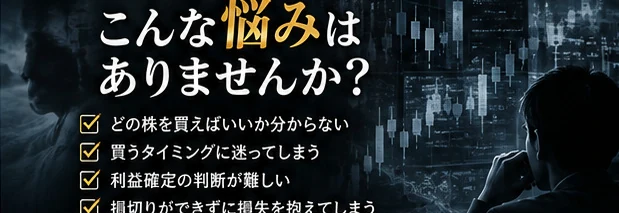
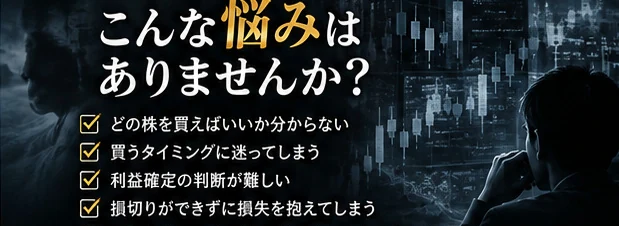
スポット3銘柄ページのPC表示幅を修正する
senrigan-spot3-sales/src/ の変更を spot3/ に反映。
spot3/ 以外のファイルには変更なし。

diff --git a/spot3/assets/css/style.css b/spot3/assets/css/style.css
@@ -26,7 +26,13 @@
   --tx3:#8d9cb2;
   --line:rgba(230,189,103,.28);
   --sans:'Noto Sans JP',-apple-system,BlinkMacSystemFont,'Hiragino Kaku Gothic ProN','Yu Gothic',sans-serif;
-  --wrap:760px;
+
+  /* レイアウト幅。ここはスマホの値。PCはファイル末尾の @media で広げる。
+     以前は --wrap が全幅で760px固定だったため、1440pxの画面でも
+     中身が760pxの帯に収まり、左右に340pxずつ空白が残っていた。 */
+  --wrap:760px;      /* セクションの最大幅（左右余白を含む） */
+  --gut:18px;        /* 左右余白 */
+  --measure:760px;   /* 本文の最大幅。PCで1行が長くなりすぎるのを防ぐ */
 }
 
 *{box-sizing:border-box;margin:0;padding:0;-webkit-text-size-adjust:100%}
@@ -46,7 +52,7 @@ body{
 img{max-width:100%;height:auto;display:block}
 a{color:inherit;text-decoration:none}
 
-.wrap{width:100%;max-width:var(--wrap);margin:0 auto;padding:0 18px}
+.wrap{width:100%;max-width:var(--wrap);margin:0 auto;padding:0 var(--gut)}
 
 /* 読み上げには残して画面からは隠す。
    見出しが画像に焼き込まれている箇所で使う。 */
@@ -81,7 +87,7 @@ a{color:inherit;text-decoration:none}
 
 h2{font-size:27px;font-weight:900;line-height:1.5;letter-spacing:-.015em;color:#fff}
 h2 em{font-style:normal;color:var(--gold-l)}
-.lead{margin-top:16px;font-size:15.5px;line-height:2;color:var(--tx2)}
+.lead{margin-top:16px;font-size:16.5px;line-height:2;color:var(--tx2)}
 .lead + .lead{margin-top:14px}
 .note{margin-top:12px;font-size:12.5px;line-height:1.85;color:var(--tx3)}
 
@@ -91,6 +97,7 @@ h2 em{font-style:normal;color:var(--gold-l)}
   font-size:19px;font-weight:900;line-height:1.65;color:#fff}
 
 @media (min-width:620px){
+  :root{--gut:28px}
   h2{font-size:32px}
   .sec{padding:64px 0}
 }
@@ -103,11 +110,15 @@ h2 em{font-style:normal;color:var(--gold-l)}
 /* ===== 画像の帯 =====
    端まで使う。囲みを付けず、地に溶かして迫力を出す。 */
 .band{position:relative;line-height:0;background:var(--navy)}
-.band img{width:100%;max-width:1400px;margin:0 auto}
-/* 下端で地に溶かす。元画像の下端が詰まって見えるのを抑える */
-.band.fade::after{content:"";position:absolute;left:0;right:0;bottom:0;height:14px;
+/* 元画像が619〜659pxしかない。1400pxまで伸ばすと2.2倍に引き伸ばされて
+   輪郭がぼやけるため、上限を設けて中央に置く。 */
+.band img{width:100%;max-width:900px;margin:0 auto}
+/* 下端で地に溶かす。元画像の下端が詰まって見えるのを抑える。
+   高さは % 指定。px で固定すると、画像が小さくなるスマホ幅で
+   相対的に厚くなり、最後の行にかぶってしまう。 */
+.band.fade::after{content:"";position:absolute;left:0;right:0;bottom:0;height:3.5%;
   background:linear-gradient(180deg,transparent,var(--navy));pointer-events:none}
-.bandcap{line-height:1.8;text-align:center;font-size:12px;color:var(--tx3);
+.bandcap{line-height:1.8;text-align:center;font-size:12.5px;color:var(--tx3);
   padding:12px 18px 0}
 
 
@@ -119,7 +130,8 @@ h2 em{font-style:normal;color:var(--gold-l)}
   var(--navy);
   padding:0 0 34px}
 .fvimg{line-height:0}
-.fvimg img{width:100%;max-width:1400px;margin:0 auto}
+/* 元画像は1983px。1100pxまでなら引き伸ばしにならない。 */
+.fvimg img{width:100%;max-width:1100px;margin:0 auto}
 @media (min-width:900px){
   .fv{padding-top:18px}
   .fvimg img{border-radius:10px;box-shadow:0 18px 60px rgba(0,0,0,.6)}
@@ -133,16 +145,16 @@ h2 em{font-style:normal;color:var(--gold-l)}
   padding:18px 16px 16px;text-align:center}
 .pricebox .k{font-size:12px;font-weight:700;letter-spacing:.14em;color:var(--gold)}
 .pricebox .v{margin-top:6px;font-weight:900;line-height:1.1;letter-spacing:-.03em;
-  font-size:44px;color:#fff}
+  font-size:48px;color:#fff}
 .pricebox .v b{color:var(--red);background:#fff;border-radius:8px;padding:0 10px;
   margin-right:3px;display:inline-block}
-.pricebox .v i{font-style:normal;font-size:20px;letter-spacing:0}
+.pricebox .v i{font-style:normal;font-size:22px;letter-spacing:0}
 .pricebox .tax{margin-top:10px}
-@media (max-width:359px){ .pricebox .v{font-size:36px} }
+@media (max-width:359px){ .pricebox .v{font-size:38px} }
 
 
 /* ===== ボタン ===== */
-.btn{display:block;width:100%;max-width:460px;margin:20px auto 0;
+.btn{display:block;width:100%;max-width:460px;margin:22px auto 0;
   font-family:inherit;text-align:center;font-size:17.5px;font-weight:900;
   line-height:1.5;padding:18px 16px;border-radius:12px;border:0;cursor:pointer;
   letter-spacing:.01em;color:#2b1d00;
@@ -186,14 +198,14 @@ h2 em{font-style:normal;color:var(--gold-l)}
 .steps li:last-child::after{display:none}
 .steps b{display:block;font-size:18px;font-weight:900;line-height:1.55;color:#fff;
   margin-bottom:5px}
-.steps span{display:block;font-size:14.5px;line-height:1.95;color:var(--tx2)}
+.steps span{display:block;font-size:15.5px;line-height:1.95;color:var(--tx2)}
 
 
 /* ===== 含まれるもの ===== */
 .incl{list-style:none;margin-top:22px;display:grid;gap:1px;
   background:var(--line);border:1px solid var(--line);border-radius:12px;overflow:hidden}
 .incl li{background:var(--navy);position:relative;
-  padding:15px 16px 15px 46px;font-size:15.5px;line-height:1.7}
+  padding:15px 16px 15px 46px;font-size:16px;line-height:1.7}
 .incl li::before{content:"";position:absolute;left:18px;top:22px;
   width:12px;height:7px;border-left:2.5px solid var(--gold);
   border-bottom:2.5px solid var(--gold);transform:rotate(-45deg)}
@@ -202,7 +214,7 @@ h2 em{font-style:normal;color:var(--gold-l)}
 .spec dl{display:grid;grid-template-columns:1fr}
 .spec dt{font-size:12.5px;font-weight:700;letter-spacing:.06em;color:var(--gold);
   padding-top:14px}
-.spec dd{font-size:15px;line-height:1.8;padding-bottom:14px;
+.spec dd{font-size:16px;line-height:1.8;padding-bottom:14px;
   border-bottom:1px solid rgba(255,255,255,.08);color:var(--tx2)}
 .spec dd:last-of-type{border-bottom:0}
 @media (min-width:560px){
@@ -219,13 +231,13 @@ h2 em{font-style:normal;color:var(--gold-l)}
   background:rgba(255,255,255,.03);overflow:hidden}
 .faq details[open]{border-color:var(--line)}
 .faq summary{list-style:none;cursor:pointer;position:relative;
-  padding:15px 46px 15px 16px;font-size:15.5px;font-weight:700;line-height:1.7;color:#fff}
+  padding:15px 46px 15px 16px;font-size:16px;font-weight:700;line-height:1.7;color:#fff}
 .faq summary::-webkit-details-marker{display:none}
 .faq summary::after{content:"";position:absolute;right:18px;top:23px;
   width:9px;height:9px;border-right:2px solid var(--gold);border-bottom:2px solid var(--gold);
   transform:rotate(45deg);transition:transform .15s}
 .faq details[open] summary::after{transform:rotate(-135deg);top:26px}
-.faq .a{padding:0 16px 16px;font-size:14.5px;line-height:1.95;color:var(--tx2)}
+.faq .a{padding:0 16px 16px;font-size:15.5px;line-height:1.95;color:var(--tx2)}
 
 
 /* ===== 価格セクション ===== */
@@ -237,12 +249,12 @@ h2 em{font-style:normal;color:var(--gold-l)}
   box-shadow:0 0 0 1px rgba(230,189,103,.18) inset,0 20px 50px rgba(0,0,0,.45)}
 .pricecard .k{font-size:12.5px;font-weight:700;letter-spacing:.16em;color:var(--gold)}
 .pricecard .v{margin-top:8px;font-weight:900;line-height:1.05;letter-spacing:-.035em;
-  font-size:54px;color:#fff}
+  font-size:58px;color:#fff}
 .pricecard .v b{color:var(--red);background:#fff;border-radius:9px;padding:0 11px;
   margin-right:3px;display:inline-block}
-.pricecard .v i{font-style:normal;font-size:23px;letter-spacing:0}
+.pricecard .v i{font-style:normal;font-size:25px;letter-spacing:0}
 .pricecard .tax{margin-top:12px}
-@media (max-width:359px){ .pricecard .v{font-size:42px} }
+@media (max-width:359px){ .pricecard .v{font-size:44px} }
 
 /* 二重価格の根拠が未確認のため、定価の打消し線は出していない。
    その判断自体をページに残しておく。 */
@@ -256,7 +268,7 @@ h2 em{font-style:normal;color:var(--gold-l)}
 .final{position:relative;padding:56px 0 50px;background:
   radial-gradient(900px 440px at 50% 0%,rgba(18,70,122,.55),transparent 72%),
   var(--navy)}
-.final h2{text-align:center}
+.final h2{text-align:center;font-size:30px}
 .final .catch{margin-top:16px;text-align:center;font-size:17px;font-weight:700;
   line-height:1.8;color:var(--gold-l)}
 .final .lead{text-align:center}
@@ -271,3 +283,106 @@ h2 em{font-style:normal;color:var(--gold-l)}
 .ft ul li{margin-left:1.1em;margin-bottom:7px}
 .ft .cr{margin-top:22px;padding-top:15px;border-top:1px solid rgba(255,255,255,.08);
   font-size:12px;color:#6d7b91}
+
+
+/* ===== タブレット（620〜999px） =====
+   幅の指定はここに置く。上の各コンポーネントより後ろに書かないと
+   基本ルール（.pricebox / .btn の max-width:460px など）に負ける。 */
+@media (min-width:620px){
+  .final h2{font-size:36px}
+  /* 460pxのままだと、中央に細い柱が立って見える */
+  .pricebox,.btn{max-width:520px}
+  .pricecard{max-width:560px;margin-left:auto;margin-right:auto}
+}
+
+
+/* ============================================================
+   PC表示（1000px以上）
+   ------------------------------------------------------------
+   ここまではスマホ基準の値。そのままPCに出すと、760pxの帯が
+   画面中央に細く残り、文字も小さいままになる。
+   横幅・文字サイズ・価格まわりをPC用に組み直す。
+
+   本文だけは --measure で止める。1100px幅いっぱいに流すと
+   日本語で1行60字を超えて読めなくなるため。
+   ============================================================ */
+@media (min-width:1000px){
+  :root{--wrap:1100px;--gut:40px;--measure:780px}
+
+  body{font-size:17px}
+  .sec{padding:84px 0}
+
+  /* --- 画像 --- */
+  .fvimg img{max-width:1100px}
+  .fv{padding-bottom:44px}
+  .band img{max-width:900px}
+  .fcards{max-width:880px;gap:18px}
+
+  /* --- 見出しと本文 --- */
+  .eyebrow{font-size:13px;margin-bottom:18px}
+  h2{font-size:34px}
+  .lead{font-size:18px;line-height:1.95;max-width:var(--measure)}
+  .note,.btnnote,.bandcap{font-size:14px}
+  .punch{font-size:26px;margin-top:28px;padding:16px 0 16px 20px;border-left-width:4px}
+
+  .steps{max-width:var(--measure);margin-top:30px}
+  .steps b{font-size:21px}
+  .steps span{font-size:16.5px}
+
+  .incl{max-width:var(--measure)}
+  .incl li{font-size:17px;padding:17px 20px 17px 50px}
+  .incl li::before{left:20px}
+
+  .spec{max-width:var(--measure)}
+  .spec dd{font-size:16.5px}
+
+  .faq{max-width:var(--measure)}
+  .faq summary{font-size:17px}
+  .faq .a{font-size:16px}
+
+  .hold{max-width:var(--measure);font-size:14px}
+
+  /* 価格セクションだけは中央に寄せる。価格カードとボタンが中央なので、
+     リストだけ左に残ると列が二本に割れて見える。 */
+  .pricesec .eyebrow,.pricesec h2,.pricesec .incl,
+  .pricesec .spec,.pricesec .hold,.pricesec .btnnote{
+    max-width:var(--measure);margin-left:auto;margin-right:auto}
+
+  /* --- 価格と購入ボタン --- */
+  .pricebox{max-width:620px;padding:24px 22px 22px}
+  .pricebox .k{font-size:13.5px}
+  .pricebox .v{font-size:64px}
+  .pricebox .v i{font-size:28px}
+
+  .pricecard{max-width:720px;margin-left:auto;margin-right:auto;
+    margin-top:32px;padding:34px 24px 30px}
+  .pricecard .k{font-size:14px}
+  .pricecard .v{font-size:84px}
+  .pricecard .v i{font-size:34px}
+
+  .btn{max-width:620px;margin-top:28px;font-size:20px;padding:22px 20px}
+  .btn small{font-size:13px}
+
+  /* --- 中央寄せのセクションは本文も中央に --- */
+  .final{padding:92px 0 84px}
+  .final h2{font-size:42px}
+  .final .catch{font-size:21px}
+  .final .lead,.final .btnnote{margin-left:auto;margin-right:auto}
+
+  /* --- フッター --- */
+  .ft{font-size:14px;padding:44px 0 48px}
+  .ft .biz,.ft ul,.ft .cr{max-width:var(--measure)}
+}
+
+@media (min-width:1400px){
+  :root{--wrap:1180px}
+  .fvimg img{max-width:1180px}
+  h2{font-size:38px}
+  .final h2{font-size:46px}
+}
+
+
+/* 最小幅。.final h2 は上で 30px を指定しているため、ここで落とす。 */
+@media (max-width:359px){
+  .final h2{font-size:27px}
+}

diff --git a/spot3/index.html b/spot3/index.html
@@ -12,7 +12,7 @@
 <link rel="preconnect" href="https://fonts.googleapis.com">
 <link rel="preconnect" href="https://fonts.gstatic.com" crossorigin>
 <link href="https://fonts.googleapis.com/css2?family=Noto+Sans+JP:wght@400;500;700;900&display=swap" rel="stylesheet">
-<link rel="stylesheet" href="assets/css/style.css?v=20261029d">
+<link rel="stylesheet" href="assets/css/style.css?v=20261029g">
 <link rel="preload" as="image" href="assets/img/hero.webp" fetchpriority="high">
 </head>
 <body>
@@ -47,13 +47,13 @@
 <!-- ============================================================
      2  読者の悩み
      画像：assets/img/problem.webp（02_problem_section.jpg）
-     ※元画像は5つ目の箇条書きが途中で切れていたため、その行は落とし、
-       内容は下の本文で補っている。
+     ※元画像は5つ目の箇条書きが下端で切れているため、その行だけ落としている。
+       4つ目まではすべて表示する。
      ============================================================ -->
 <section class="band fade">
-  <img src="assets/img/problem.webp"
+  <img src="assets/img/problem.webp?v=20261029f"
        alt="こんな悩みはありませんか。どの株を買えばいいか分からない。買うタイミングに迷ってしまう。利益確定の判断が難しい。損切りができずに損失を抱えてしまう。"
-       width="619" height="213" loading="lazy" decoding="async">
+       width="619" height="226" loading="lazy" decoding="async">
 </section>
 
 <section class="sec deep">
